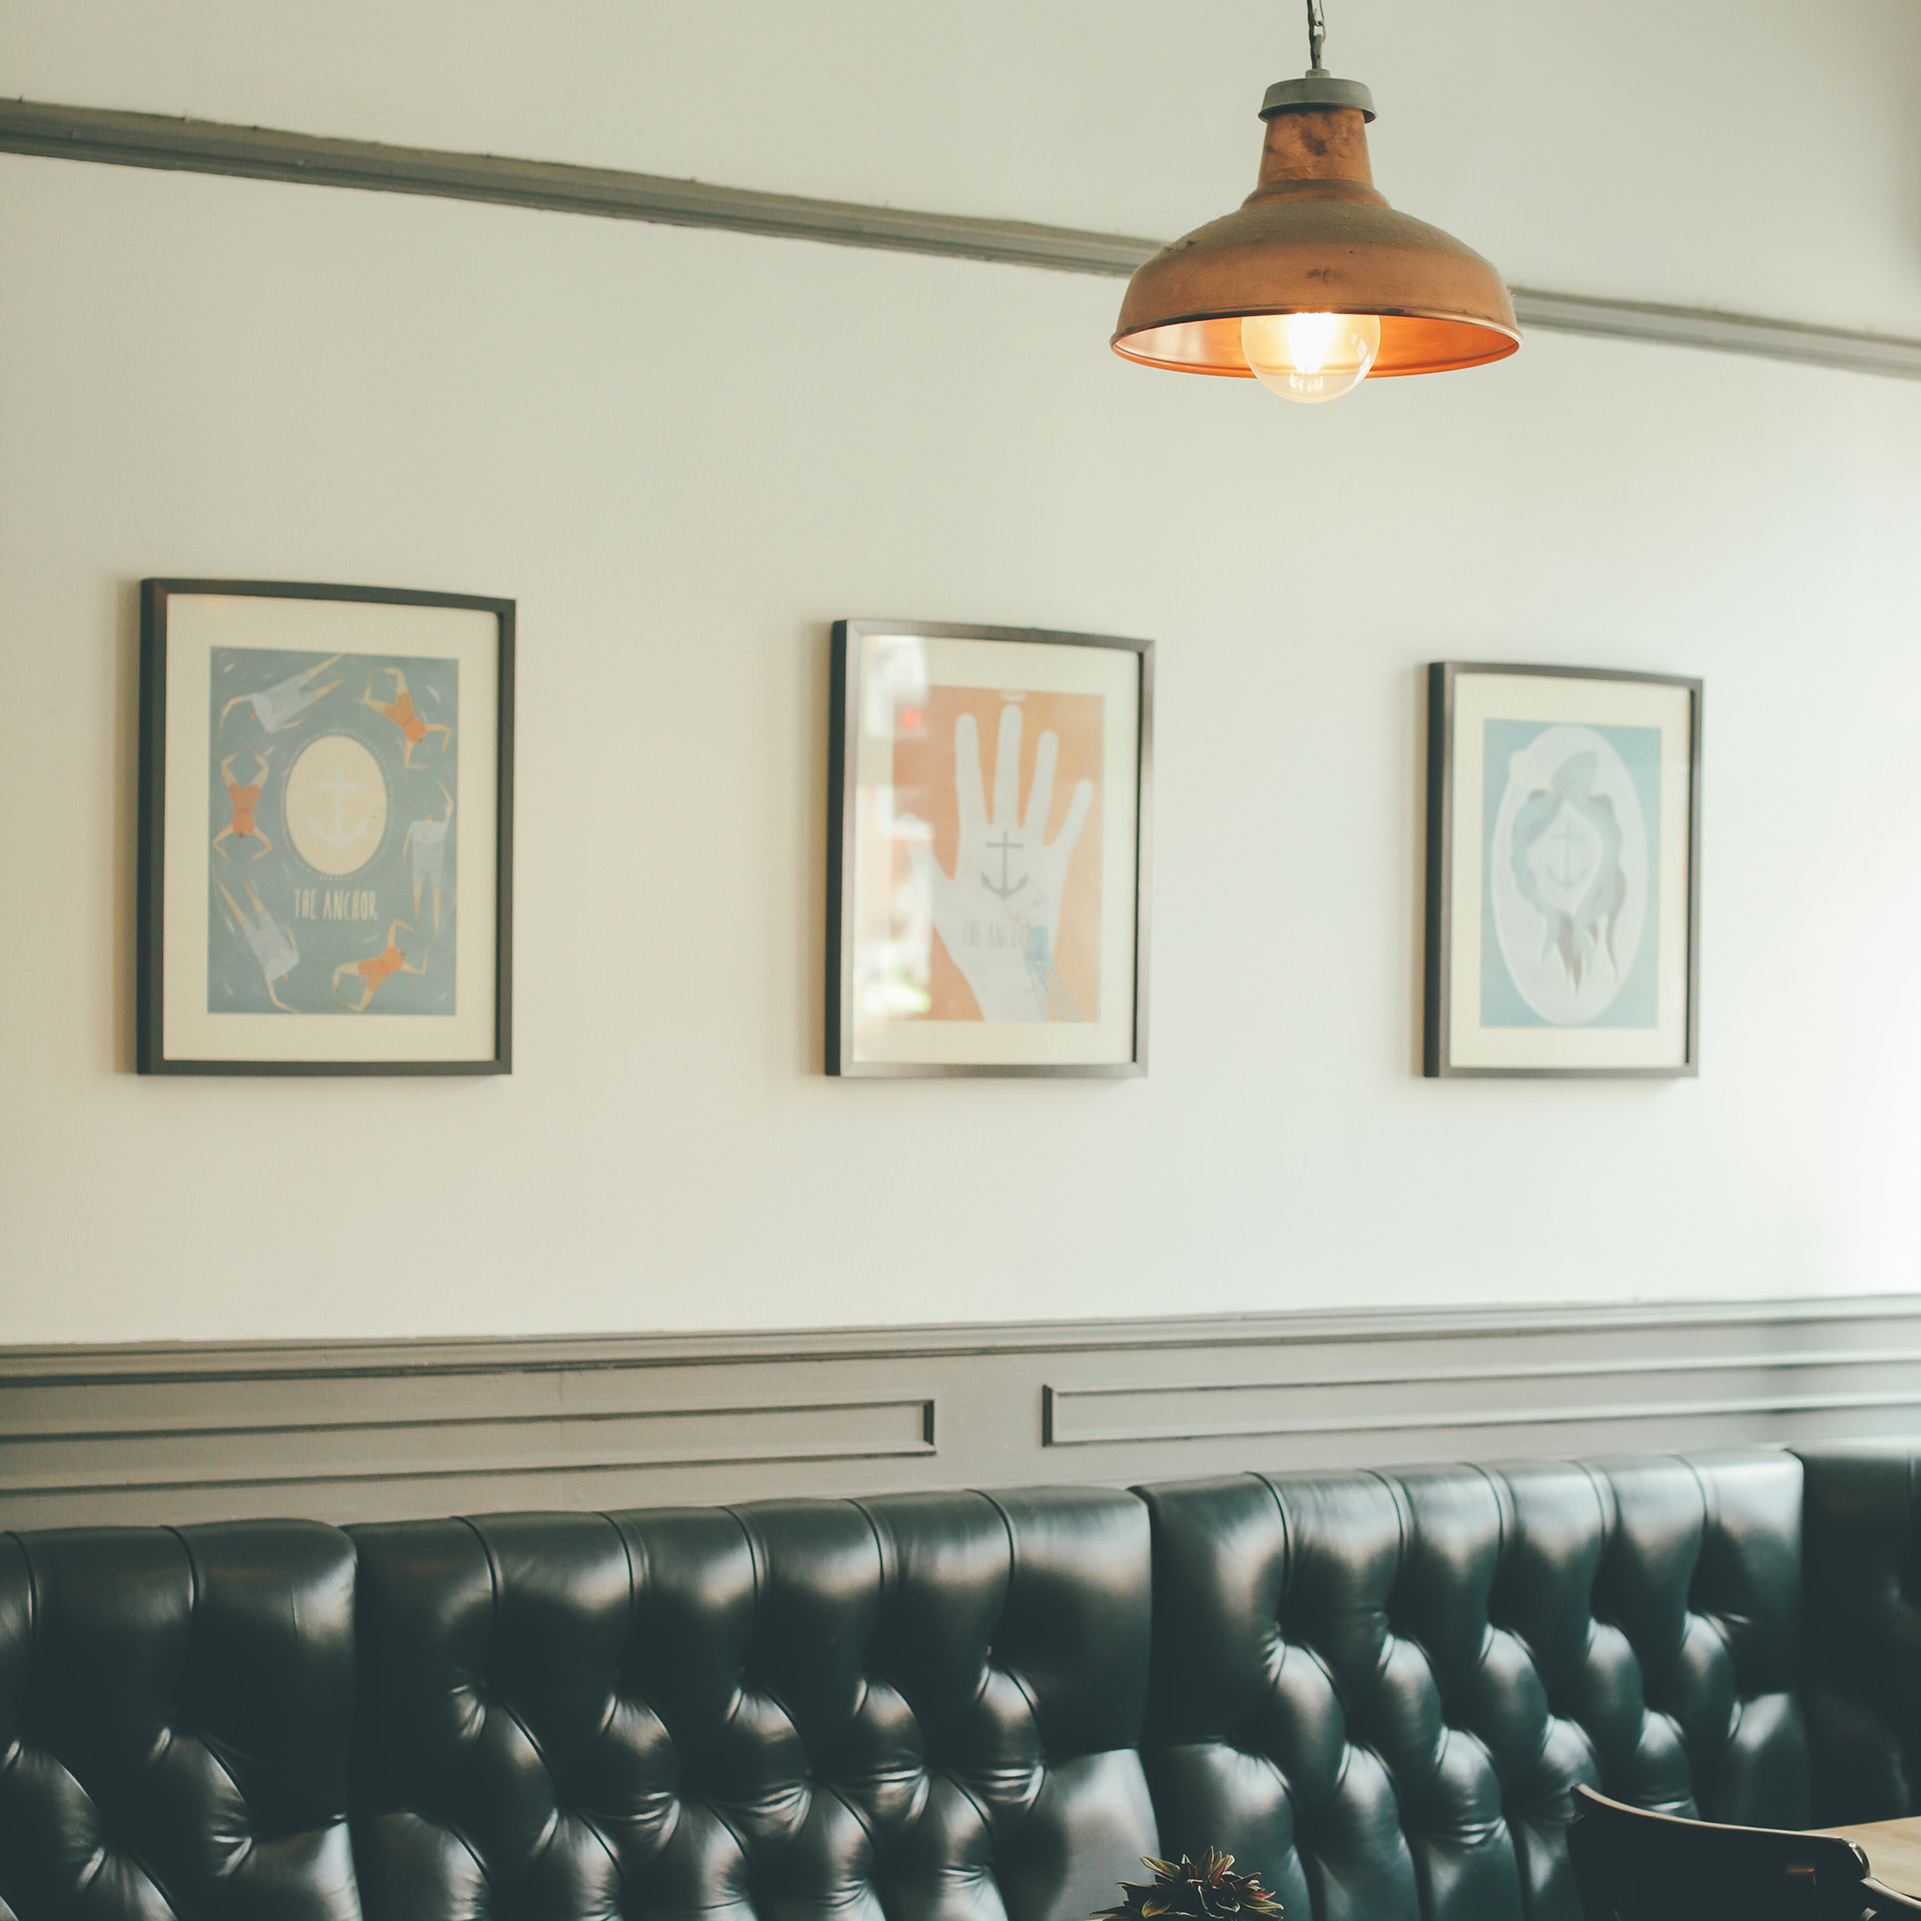
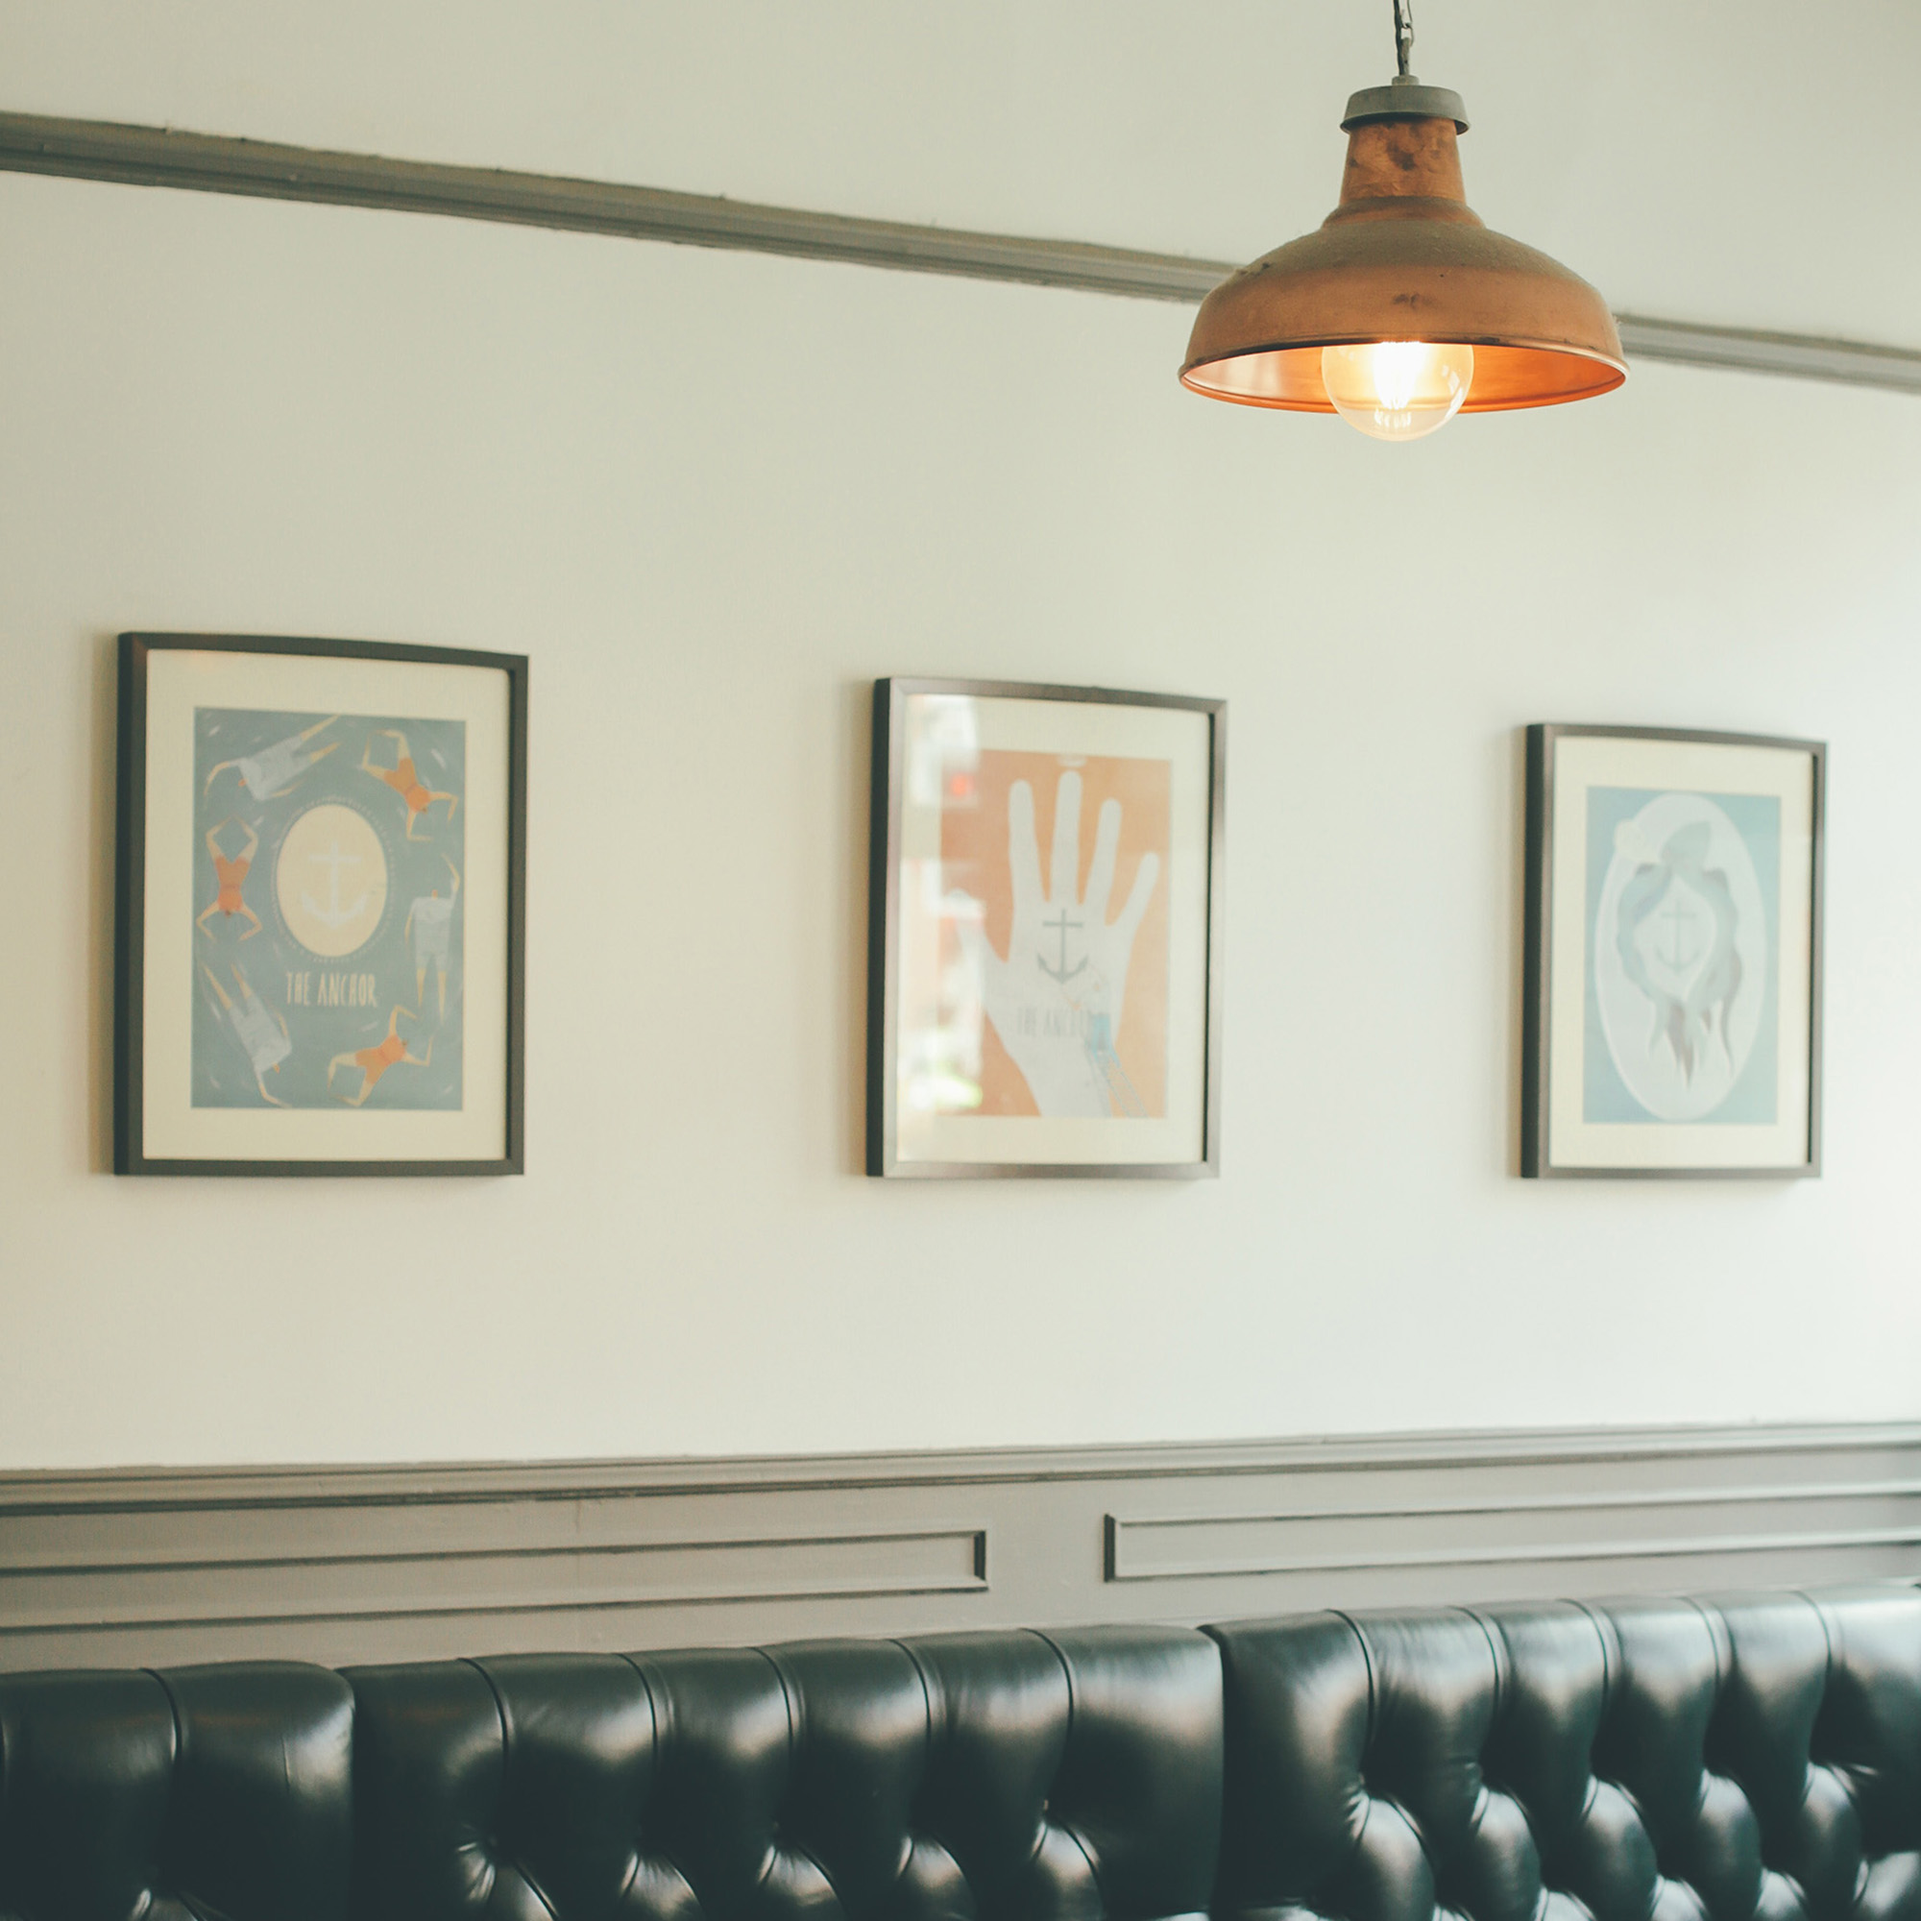
placing the slideShow pictures on bottom of div

diff --git a/css/main.css b/css/main.css
@@ -1,1 +1,1 @@
-button{outline:none}.fadeOut{opacity:0;transition:500ms}body{font-family:'Roboto';font-size:12px;letter-spacing:2px;padding:0;margin:0}h1{margin:0;font-size:2.5em;font-weight:500;letter-spacing:10px;padding-left:20px}main{transition:700ms}footer{transition:700ms}.navWrapper{background:#cccccc;color:white}nav{height:100px;display:flex;align-items:center;justify-content:space-between;margin:auto}.navLinksWrapper{display:flex;flex-direction:column;align-items:flex-end;position:relative}#navBarButton{background:none;border:none;display:flex;flex-direction:column;padding-right:20px}.hamburger{border-bottom:3px solid white;border-radius:10px;width:30px;margin:3px;transition:500ms}.toggledNavButton .hamburger.top-bar{transform:rotate(45deg);transform-origin:13%;width:35px}.toggledNavButton .hamburger.middle-bar{opacity:0}.toggledNavButton .hamburger.bottom-bar{transform:rotate(-45deg);transform-origin:13%;width:35px}.toggle{display:none}.ulFade{opacity:0}.navLinksFade{opacity:0;transition:500ms}.navLinks{top:65px;width:100vw;height:100vh;background:rgba(0,0,0,0.5);z-index:1;position:absolute;transition:500ms}#navUl{display:flex;font-size:1.1em;flex-direction:column;align-items:flex-end;padding:20px;margin:0;z-index:2;transition:500ms}#navUl a{letter-spacing:3px;text-decoration:none;color:white;padding:20px;transition:200ms}.backgroundFilter{filter:blur(1px);transition:1000ms}@media screen and (min-width: 750px){nav{height:120px;max-width:1000px}.navLinksWrapper{display:flex;flex-direction:column;align-items:flex-end;position:relative}#navBarButton{display:none}.toggle{display:inline !important}.navLinksFade{opacity:1 !important}.navLinks{top:0;width:100%;height:100%;background:none;position:static}.ulFade{opacity:1 !important}#navUl{flex-direction:row;font-size:1.2em;padding:0}.backgroundFilter{filter:blur(0px) !important}}#slideShow{width:100%;height:300px;overflow:hidden;background:black;margin:auto}#slideShowBanner img{width:100%}.slideWrapper{transition:700ms}.fadeSlide{opacity:0.5}#slideDotsWrapper{display:flex;justify-content:center;align-items:center;height:50px;width:100%;margin-top:-50px;position:absolute}.slideDot{width:10px;height:10px;margin:5px;border-radius:20px;border:1px solid white;transition:700ms}.activeDot{background:white}@media screen and (min-width: 750px){#slideShow{height:450px}.slideDot{width:15px;height:15px}}.foldDownWrapper{display:flex;flex-direction:column;align-items:center}#startFoldDown{font-weight:900;background:#f99231;color:white;border:none;padding:20px;letter-spacing:2px;border-radius:5px;transition:300ms;margin:30px}#startFoldDown:hover{background:#ed8a2d}.foldDownDiv{width:300px;text-align:center;padding:20px;margin:10px;background:#ed402c;color:white;text-transform:uppercase;font-weight:900;border-radius:10px;transition:800ms}.foldDownDiv:hover{background:#d83927}
+button{outline:none}.fadeOut{opacity:0;transition:500ms}body{font-family:'Roboto';font-size:12px;letter-spacing:2px;padding:0;margin:0}h1{margin:0;font-size:2.5em;font-weight:500;letter-spacing:10px;padding-left:20px}main{transition:700ms}.navWrapper{background:#cccccc;color:white}nav{height:100px;display:flex;align-items:center;justify-content:space-between;margin:auto}.navLinksWrapper{display:flex;flex-direction:column;align-items:flex-end;position:relative}#navBarButton{background:none;border:none;display:flex;flex-direction:column;padding-right:20px}.hamburger{border-bottom:3px solid white;border-radius:10px;width:30px;margin:3px;transition:500ms}.toggledNavButton .hamburger.top-bar{transform:rotate(45deg);transform-origin:13%;width:35px}.toggledNavButton .hamburger.middle-bar{opacity:0}.toggledNavButton .hamburger.bottom-bar{transform:rotate(-45deg);transform-origin:13%;width:35px}.toggle{display:none}.ulFade{opacity:0}.navLinksFade{opacity:0;transition:500ms}.navLinks{top:65px;width:100vw;height:100vh;background:rgba(0,0,0,0.5);z-index:1;position:absolute;transition:500ms}#navUl{display:flex;font-size:1.1em;flex-direction:column;align-items:flex-end;padding:20px;margin:0;z-index:2;transition:500ms}#navUl a{letter-spacing:3px;text-decoration:none;color:white;padding:20px;transition:200ms}.backgroundFilter{filter:blur(1px);transition:1000ms}@media screen and (min-width: 750px){nav{height:120px;max-width:1000px}.navLinksWrapper{display:flex;flex-direction:column;align-items:flex-end;position:relative}#navBarButton{display:none}.toggle{display:inline !important}.navLinksFade{opacity:1 !important}.navLinks{top:0;width:100%;height:100%;background:none;position:static}.ulFade{opacity:1 !important}#navUl{flex-direction:row;font-size:1.2em;padding:0}.backgroundFilter{filter:blur(0px) !important}}#slideShow{width:100%;height:300px;overflow:hidden;background:black;position:relative;margin:auto}#slideShowBanner img{position:absolute;width:100%;bottom:0;left:0}.slideWrapper{transition:700ms}.fadeSlide{opacity:0.5}#slideDotsWrapper{display:flex;justify-content:center;align-items:center;height:50px;width:100%;margin-top:-50px;position:absolute}.slideDot{width:10px;height:10px;margin:5px;border-radius:20px;border:1px solid white;transition:700ms}.activeDot{background:white}@media screen and (min-width: 750px){#slideShow{height:450px}.slideDot{width:15px;height:15px}}.foldDownWrapper{display:flex;flex-direction:column;align-items:center}#startFoldDown{font-weight:900;background:#f99231;color:white;border:none;padding:20px;letter-spacing:2px;border-radius:5px;transition:300ms;margin:30px}#startFoldDown:hover{background:#ed8a2d}.foldDownDiv{width:300px;text-align:center;padding:20px;margin:10px;background:#ed402c;color:white;text-transform:uppercase;font-weight:900;border-radius:10px;transition:800ms}.foldDownDiv:hover{background:#d83927}

diff --git a/index.html b/index.html
@@ -2,6 +2,7 @@
 <html lang="en">
 <head>
     <meta charset="UTF-8">
+    <meta name="viewport" content="width=device-width, initial-scale=1">
     <title>Document</title>
     <link href="https://fonts.googleapis.com/css?family=Roboto:400,500,900" rel="stylesheet">
     <link rel="stylesheet" href="css/main.css">
@@ -40,19 +41,23 @@
 </header>
 
 <main>
-<div class="dateWrapper">
-    <div id="date"></div>
-    <div id="time"></div>
-</div>
+   
+    <div class="dateWrapper">
+        <div id="date"></div>
+        <div id="time"></div>
+    </div>
 
-<div class="foldDownWrapper">
-    <button id="startFoldDown">
-        START FOLD DOWN ANIMATION
-    </button>
-<div id="displayFoldDown"></div>
-</div>
+    <div class="foldDownWrapper">
+        <button id="startFoldDown">
+            START FOLD DOWN ANIMATION
+        </button>
+    <div id="displayFoldDown"></div>
+    </div>
+    
 </main>
+
 <footer></footer>
+
 <script src="js/main.js"></script>
 
 </body>

diff --git a/js/main.js b/js/main.js
@@ -127,7 +127,7 @@ function printCurrentTime(){
 printCurrentTime();
 
 //SLIDE SHOW ANIMATION
-function slideShowBanner(i){
+function slideShowBanner(){
     
     const slideShowBannerDiv = document.
     getElementById('slideShow');
@@ -135,7 +135,8 @@ function slideShowBanner(i){
     const bannerImages = [
         "cafeInterior.jpg", 
         "perestrianStreet.jpg",
-        "masseHall.jpg"
+        "masseHall.jpg",
+        "bridge.jpg"
     ];
     
     const dotWrapper = document.
@@ -237,4 +238,17 @@ function foldDownAnimtion(){
     }
 
 }
-foldDownAnimtion();
+foldDownAnimtion(); 
+
+/* 
+
+//GÖR GALLERY
+
+// JavaScript
+window.sr = ScrollReveal();
+sr.reveal('.footer');
+sr.reveal('.bar');
+
+<script src="https://unpkg.com/scrollreveal/dist/scrollreveal.min.js"></script>
+
+*/

diff --git a/scss/_slideShowBanner.scss b/scss/_slideShowBanner.scss
@@ -3,11 +3,15 @@
     height: 300px;
     overflow: hidden;
     background: black;
+    position: relative;
     margin: auto;
 }
 
 #slideShowBanner img{
+    position: absolute;
     width: 100%;
+    bottom: 0;
+    left: 0;
 }
 
 .slideWrapper{
@@ -47,8 +51,13 @@
         height: 450px;
     }
     
+    /*#slideShowBanner img{
+        margin-top: -25%;
+    }*/
+    
     .slideDot{
         width: 15px;
         height: 15px;
     }
+    
 }

diff --git a/scss/_generalStyling.scss b/scss/_generalStyling.scss
@@ -26,7 +26,3 @@ h1{
 main{
     transition: 700ms;
 }
-
-footer{
-    transition: 700ms;
-}
